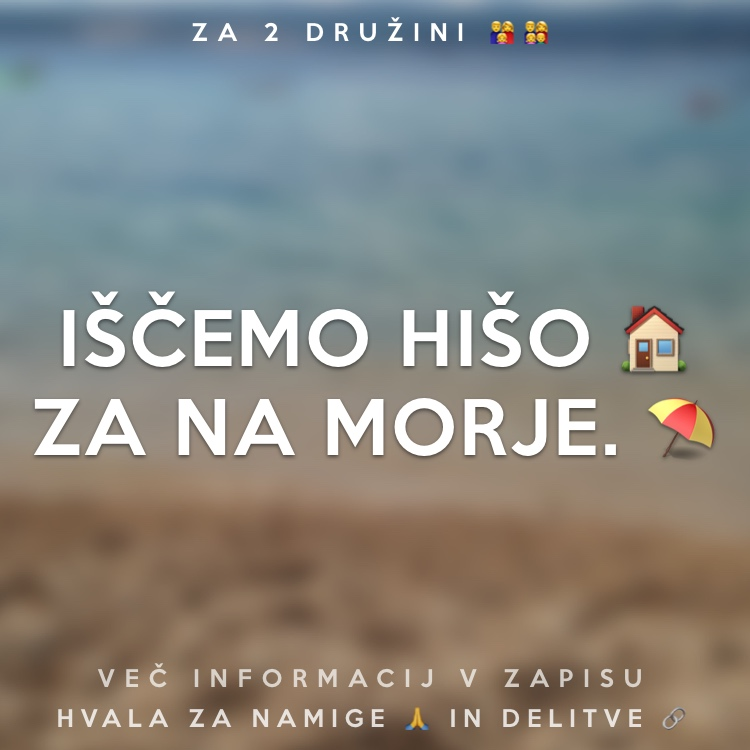
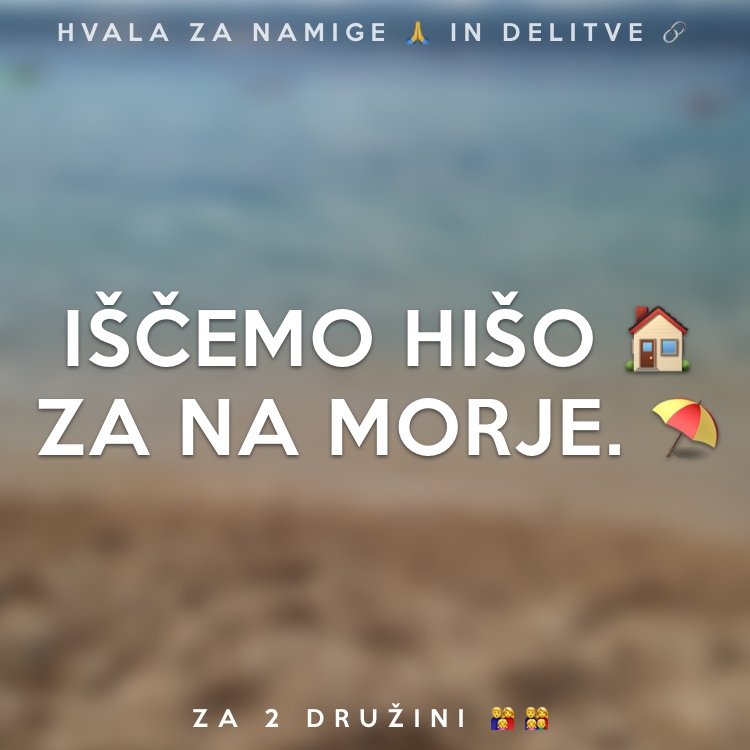
Plaža

diff --git a/_posts/2021-06-10-iscemo-hiso-za-na-morje.md b/_posts/2021-06-10-iscemo-hiso-za-na-morje.md
@@ -7,9 +7,7 @@ author:		davorin
 tags:		blog
 ---
 
-## Išče se dvodružinska hiša med Omiškom in Makarsko ... maksimalno tja do Zaostrog. 
-
-### Lahko tudi kaj prej, ampak le preko priporočila.
+**Išče se dvodružinska hiša med Omiškom in Makarsko ... maksimalno tja do Zaostrog. Lahko tudi kaj prej (Pag, Zadar, ...), ampak le preko priporočila. 🔎**
 
 Iščemo:
 - hišo za dve družini, 7 ljudi: 4 odrasle, 3 otroke (4, 7, 10 let) 👨👩👧👨👩👧👦 (lahko tudi dva ločena apartmaja)
@@ -18,16 +16,18 @@ Iščemo:
 - terasa velik plus, žar tudi 🪵, • najraje v majhni vasici, daleč od turizma.
 - gremo tja, kjer so plaže ful lepe, max 500 m od plaže, če je le-ta lepa, z majhnimi kamenčki.
 
-Za poletni dopust iščemo hišo (ali dva apartmaja), s seboj naj ima 3 (do 4) spalnice, če ima teraso in zunanji žar, bomo zares dobri prijatelji. Brez (lepega) razgleda naj prosim ne hodi z nami, prav tako pa naj bo urejena in čista. Ni nujno, da je kot iz škatlice in ni nujno da je mlada, a naj bo urejena.
+🏡 Za poletni dopust iščemo hišo (ali dva apartmaja), s seboj naj ima 3 (do 4) spalnice, če ima teraso in zunanji žar, bomo zares dobri prijatelji. Brez (lepega) razgleda naj prosim ne hodi z nami, prav tako pa naj bo urejena in čista. Ni nujno, da je kot iz škatlice in ni nujno da je mlada, a naj bo urejena.
 
-Ker vanjo pridemo 4 odrasli in 3 otroci, naj se rada igra z mladino. Predlagamo ji tudi, naj nima preveč stopnic okoli vogalov in če že mora imeti klet, naj ima v njej nekaj steklenic domače loze. Slednje ni njuno, jo bomo pa raje vzeli za 14 dni nekam v okolico Makarske, kjer so plaže kot iz škatlice in smo daleč od turističnih mega-centrov Istre. 🏝
+🥃 Ker vanjo pridemo 4 odrasli in 3 otroci, naj se rada igra z mladino. Predlagamo ji tudi, naj nima preveč stopnic okoli vogalov in če že mora imeti klet, naj ima v njej nekaj steklenic domače loze. Slednje ni njuno, jo bomo pa raje vzeli za 14 dni nekam v okolico Makarske, kjer so plaže kot iz škatlice in smo daleč od turističnih mega-centrov Istre. 🏝
 
 🏖 Ko smo pri plaži: prosimo da je peščena, otroci imajo najrajši majhne kamenčke. Skal, betona in velikih laporovcev ne marajo niti starši. Niti mivke. Tudi da plaža ni predaleč od hiše (bližje je, bolje je) in da ni ravno na vrhu hriba. Saj imamo radi rekreacijo in peš gremo lahko 500 metrov gor ali dol po hribu, kaj dlje od plaže pa ne bi bili. 
 
-Ponudbe pod šifro: **POLET-YEAH-2021** pošljite v komentarje spodaj, ali na [FB, kjer sem prvotno objavil ta zapis](https://www.facebook.com/DavorinPavlica/posts/10159704834589260)! Lahko tudi na Twitter.
+🏷 Ponudbe pod šifro: **POLET-YEAH-2021** pošljite v komentarje spodaj, 
+- ali na [FB, kjer sem prvotno objavil ta zapis](https://www.facebook.com/DavorinPavlica/posts/10159704834589260)
+- lahko [tudi na Twitter](https://twitter.com/DavorinPavlica).
 
 Hvala. 🙏
 
-P.S.: Stane, Drago, Cene in Košta, ne javljajte se, smo že dobili.  👋
+P.S.: Stane, Drago, Cene in Košta, ne javljajte se, smo že dobili. 👋
 
 ![Iščemo hišo 🏠 za na morje. ⛱]({{ "/assets/imgs/2021-06-10-hisa za na morje.jpg" | absolute_url }} "Title")
